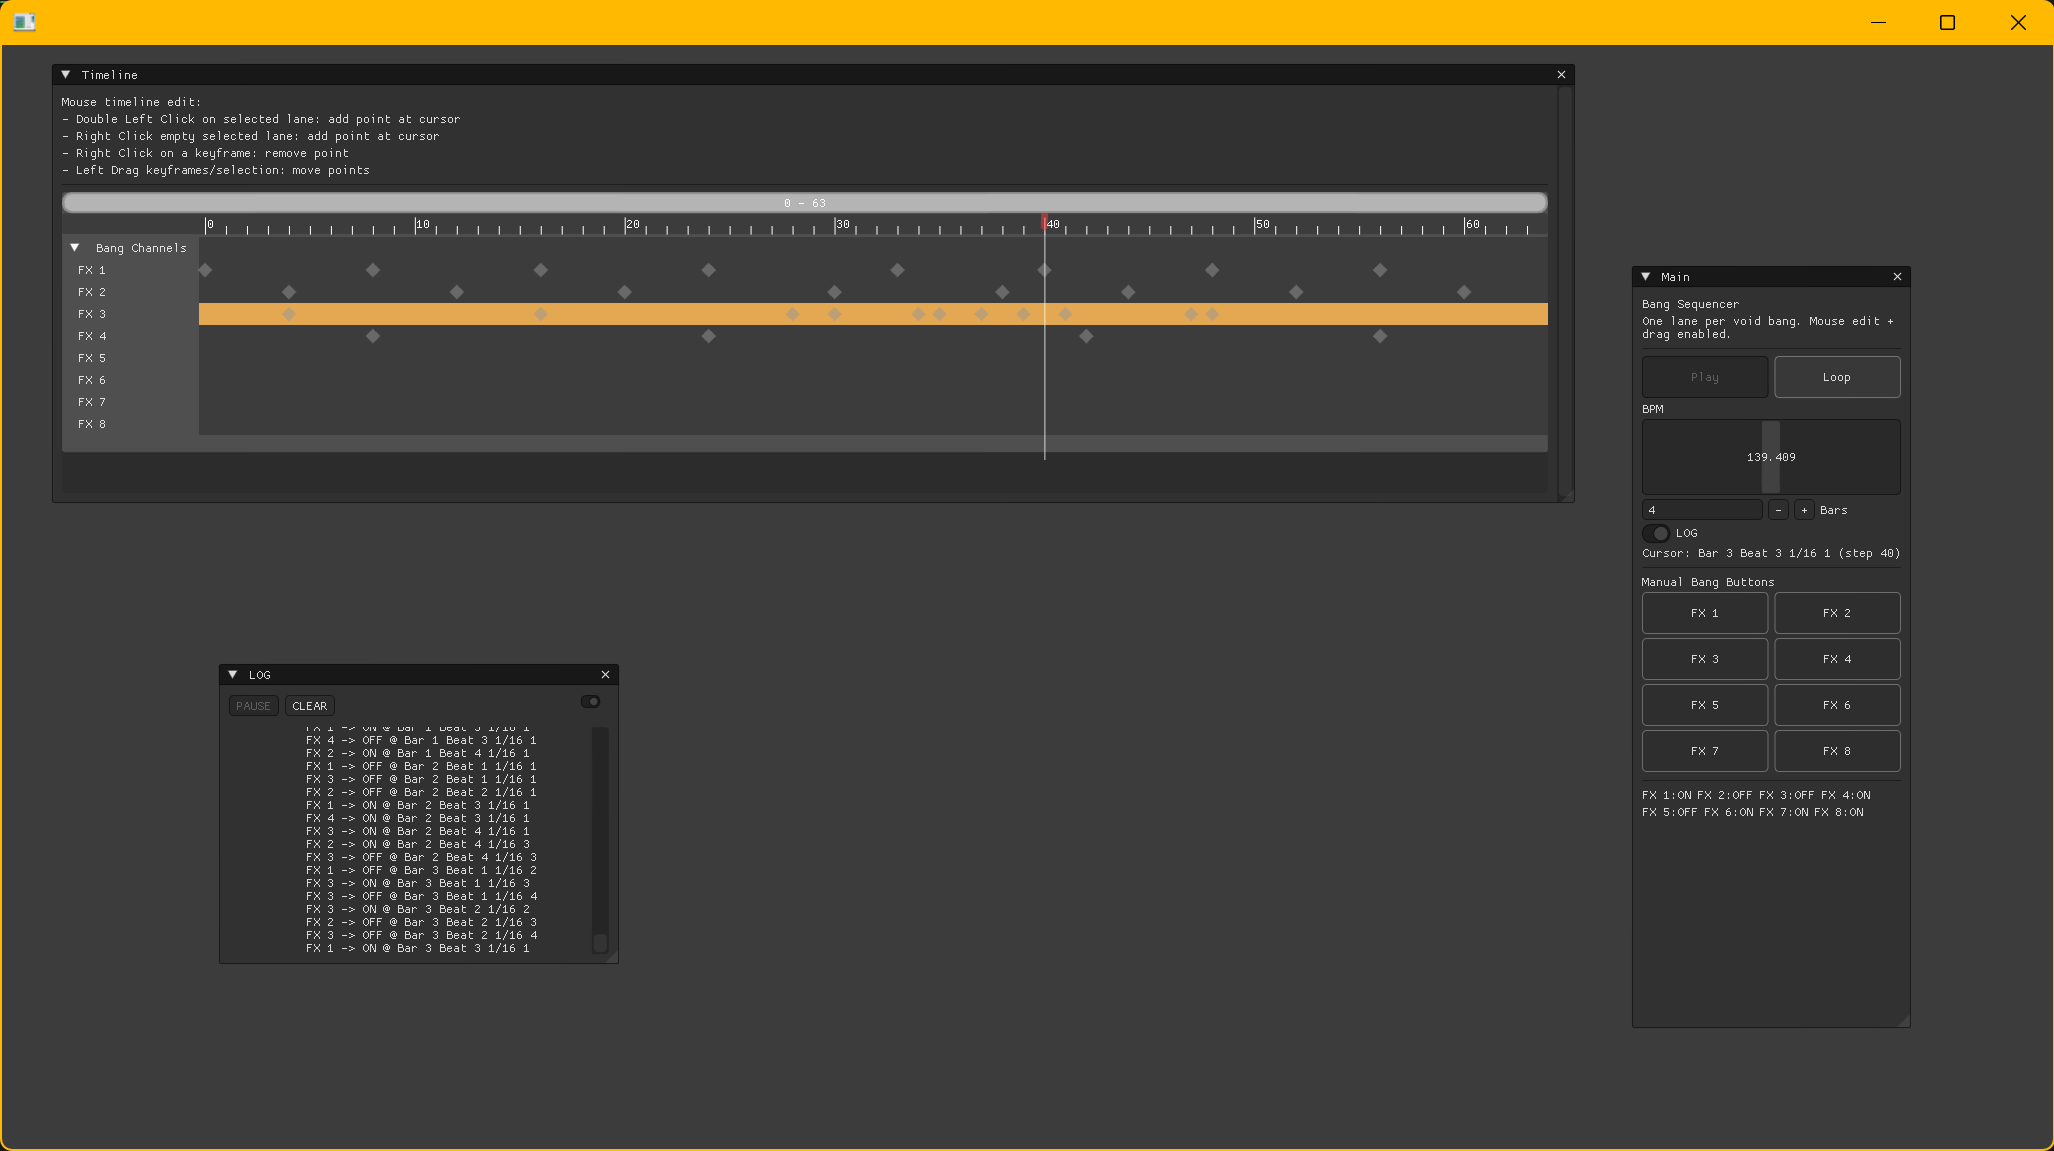
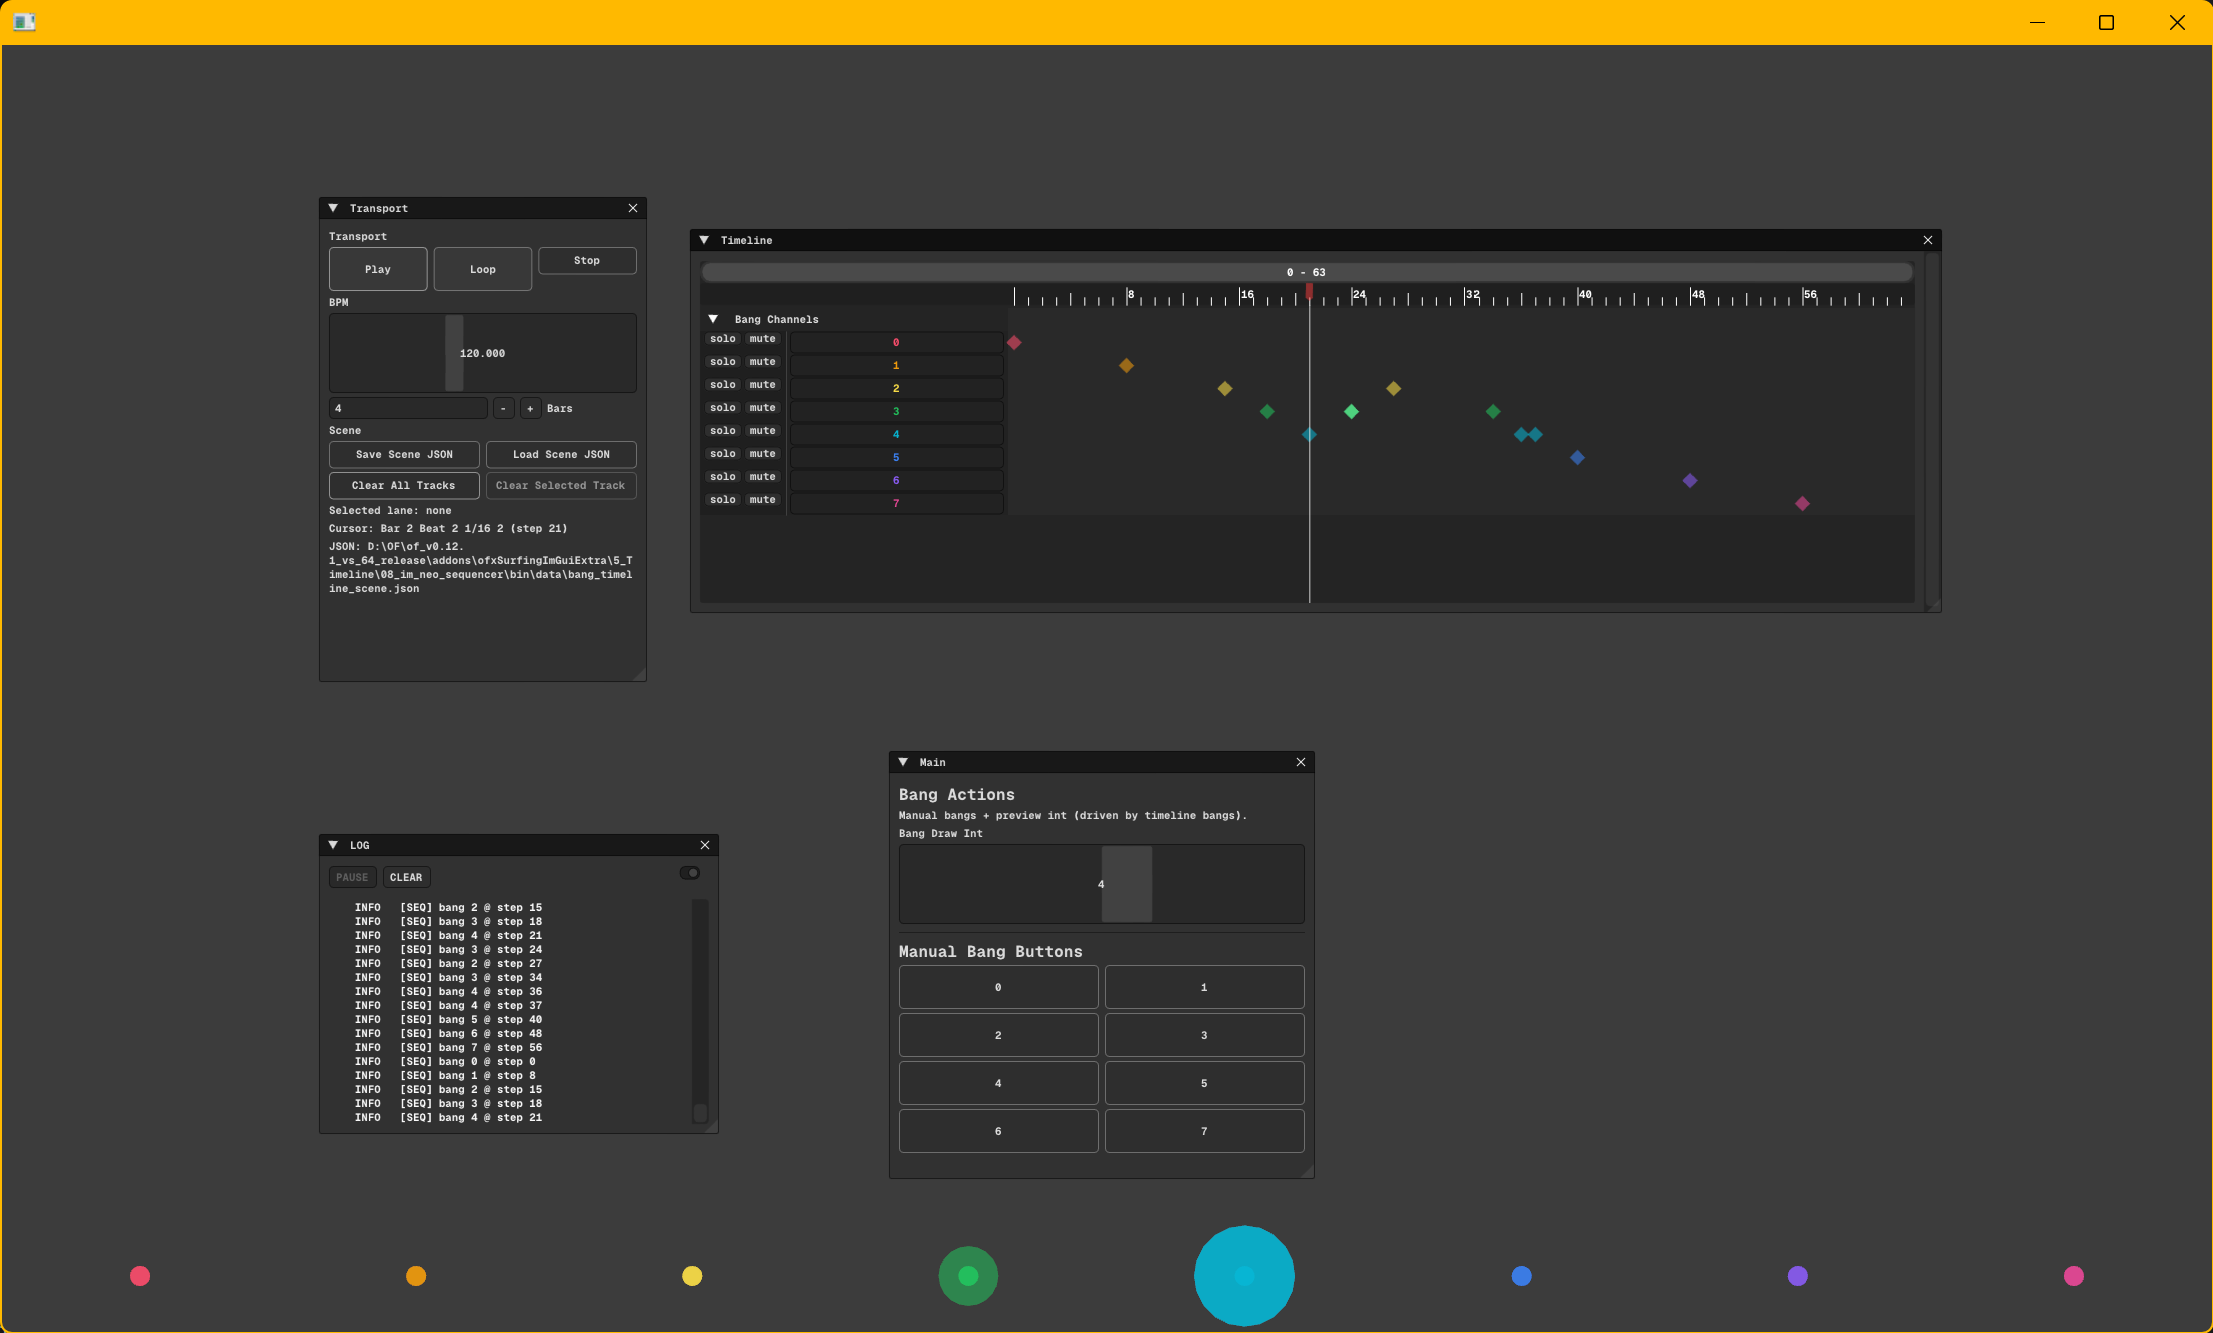
Add lane anchors, refine UI and auto-load scene
Draw lane anchor indicators and centralize anchor position logic: added getLaneAnchorPosition(), drawLaneAnchors(), and updated spawnParticleForLane() to use anchors. Call drawLaneAnchors() from ofApp::draw().

Refine timeline manager behavior and appearance: add loadSceneIfAvailable(); tweak NeoSequencer background colors; remove the SEL selection button and its styling; adjust control width calculations; and replace long-space padding in getLaneTimelineId with a fixed-width "W" string for consistent label layout.

Minor cleanup: remove an extra blank line in BangParticle.h. Updated Capture.png (binary image asset) to reflect UI/visual changes.

diff --git a/5_Timeline/08_im_neo_sequencer/src/BangTimelineManager.h b/5_Timeline/08_im_neo_sequencer/src/BangTimelineManager.h
@@ -55,11 +55,12 @@ public:
     updateTimelineBounds();
     sanitizeAllLanes();
     resolveScenePath();
+    loadSceneIfAvailable();
 
     auto& style = ImGui::GetNeoSequencerStyle();
     style.MaxSizePerTick = 8.0f;
-    style.Colors[ImGuiNeoSequencerCol_Bg] = ImVec4(0.18f, 0.18f, 0.18f, 1.00f);
-    style.Colors[ImGuiNeoSequencerCol_TimelinesBg] = ImVec4(0.22f, 0.22f, 0.22f, 1.00f);
+    style.Colors[ImGuiNeoSequencerCol_Bg] = ImVec4(0.14f, 0.14f, 0.14f, 1.00f);
+    style.Colors[ImGuiNeoSequencerCol_TimelinesBg] = ImVec4(0.16f, 0.16f, 0.16f, 1.00f);
     style.Colors[ImGuiNeoSequencerCol_TopBarBg] = ImVec4(0.12f, 0.12f, 0.12f, 1.00f);
     style.Colors[ImGuiNeoSequencerCol_ZoomBarBg] = ImVec4(0.20f, 0.20f, 0.20f, 0.95f);
     style.Colors[ImGuiNeoSequencerCol_ZoomBarSlider] = ImVec4(0.30f, 0.30f, 0.30f, 0.88f);
@@ -202,6 +203,14 @@ private:
     }
   }
 
+  void loadSceneIfAvailable()
+  {
+    ofFile file(scenePathAbsolute_);
+    if (file.exists()) {
+      loadSceneFromDisk();
+    }
+  }
+
   void setupBangParameters()
   {
     bangs_.clear();
@@ -283,11 +292,10 @@ private:
     const float controlsY = rect.y + std::max(0.0f, (laneHeight - frameHeight) * 0.5f);
     const float controlsX = rect.x + 4.0f;
 
-    const float wSel = ImGui::CalcTextSize("SEL").x + style.FramePadding.x * 2.0f;
     const float wSolo = ImGui::CalcTextSize("solo").x + style.FramePadding.x * 2.0f;
     const float wMute = ImGui::CalcTextSize("mute").x + style.FramePadding.x * 2.0f;
     const float spacing = 2.0f;
-    const float controlsWidth = wSel + spacing + wSolo + spacing + wMute;
+    const float controlsWidth = wSolo + spacing + wMute;
     const float labelMinWidth = 40.0f;
     const float labelColumnX = std::min(controlsX + controlsWidth + 8.0f, rect.z - labelMinWidth - 2.0f);
     const float labelWidth = std::max(labelMinWidth, rect.z - labelColumnX - 4.0f);
@@ -300,23 +308,6 @@ private:
     ImGui::SetCursorScreenPos(ImVec2(controlsX, controlsY));
 
     ImGui::PushID(static_cast<int>(laneIndex) + 1000);
-    const bool isSelectedLane = selectedLane_ == static_cast<int>(laneIndex);
-    if (isSelectedLane) {
-      ImGui::PushStyleColor(ImGuiCol_Button, IM_COL32(0, 0, 0, 180));
-      ImGui::PushStyleColor(ImGuiCol_ButtonHovered, IM_COL32(0, 0, 0, 210));
-      ImGui::PushStyleColor(ImGuiCol_ButtonActive, IM_COL32(0, 0, 0, 230));
-      ImGui::PushStyleColor(ImGuiCol_Text, IM_COL32(250, 250, 250, 255));
-    }
-
-    if (ImGui::SmallButton("SEL")) {
-      pendingSelectedLane_ = static_cast<int>(laneIndex);
-      selectedLane_ = static_cast<int>(laneIndex);
-    }
-    if (isSelectedLane) {
-      ImGui::PopStyleColor(4);
-    }
-
-    ImGui::SameLine(0.0f, 2.0f);
     const bool wasSoloEnabled = laneSolo_[laneIndex];
     if (wasSoloEnabled) {
       ImGui::PushStyleColor(ImGuiCol_Button, IM_COL32(60, 160, 60, 255));
@@ -658,7 +649,7 @@ private:
 
   std::string getLaneTimelineId(std::size_t laneIndex) const
   {
-    return "                                          " + getLaneLabel(laneIndex) + "##lane_" + ofToString(laneIndex);
+    return "WWWWWWWWWWWWWWWWWWWWWWWWWWWWWWWW  " + getLaneLabel(laneIndex) + "##lane_" + ofToString(laneIndex);
   }
 
   std::string formatStepMusical(ImGui::FrameIndexType step) const

diff --git a/5_Timeline/08_im_neo_sequencer/src/ofApp.cpp b/5_Timeline/08_im_neo_sequencer/src/ofApp.cpp
@@ -37,6 +37,7 @@ void ofApp::update()
 //--------------------------------------------------------------
 void ofApp::draw()
 {
+  drawLaneAnchors();
   drawParticles();
   drawGui();
 }
@@ -107,6 +108,13 @@ void ofApp::spawnParticleForLane(std::size_t lane)
 {
   if (lane >= BangTimelineManager::kBangCount) return;
 
+  const ofVec2f position = getLaneAnchorPosition(lane);
+  particles_.emplace_back(position, laneColors_[lane], 56.0f, 1.0f);
+}
+
+//--------------------------------------------------------------
+ofVec2f ofApp::getLaneAnchorPosition(std::size_t lane) const
+{
   const float laneCount = static_cast<float>(BangTimelineManager::kBangCount);
   const float w = static_cast<float>(ofGetWidth());
   const float h = static_cast<float>(ofGetHeight());
@@ -114,8 +122,21 @@ void ofApp::spawnParticleForLane(std::size_t lane)
 
   const float x = laneWidth * static_cast<float>(lane) + laneWidth * 0.5f;
   const float y = std::max(16.0f, h - 56.0f);
+  return { x, y };
+}
 
-  particles_.emplace_back(ofVec2f(x, y), laneColors_[lane], 56.0f, 1.0f);
+//--------------------------------------------------------------
+void ofApp::drawLaneAnchors() const
+{
+  ofPushStyle();
+  ofFill();
+  for (std::size_t lane = 0; lane < BangTimelineManager::kBangCount; ++lane) {
+    ofFloatColor color = laneColors_[lane];
+    color.a = 0.9f;
+    ofSetColor(color);
+    ofDrawCircle(getLaneAnchorPosition(lane), 10.0f);
+  }
+  ofPopStyle();
 }
 
 //--------------------------------------------------------------

diff --git a/5_Timeline/08_im_neo_sequencer/src/ofApp.h b/5_Timeline/08_im_neo_sequencer/src/ofApp.h
@@ -45,6 +45,8 @@ private:
 
   void drawMainBangPanel();
   void onBangEvent(std::size_t lane, ImGui::FrameIndexType step, bool fromTimeline);
+  ofVec2f getLaneAnchorPosition(std::size_t lane) const;
+  void drawLaneAnchors() const;
   void spawnParticleForLane(std::size_t lane);
   void updateParticles(float deltaSeconds);
   void drawParticles() const;

diff --git a/5_Timeline/08_im_neo_sequencer/src/BangParticle.h b/5_Timeline/08_im_neo_sequencer/src/BangParticle.h
@@ -56,4 +56,3 @@ private:
   float ageSeconds_ = 0.0f;
   bool alive_ = false;
 };
-
